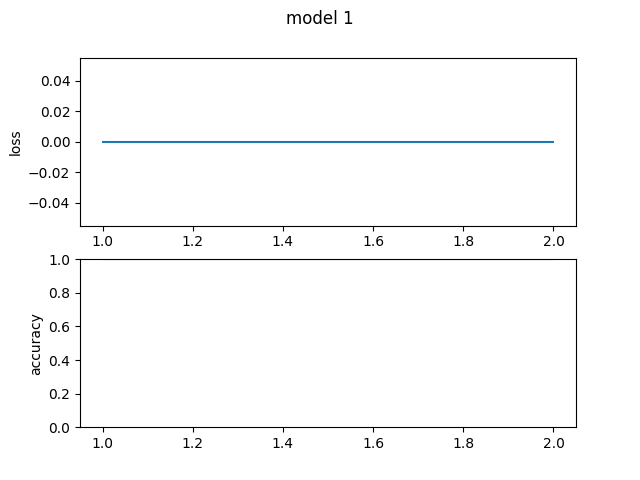
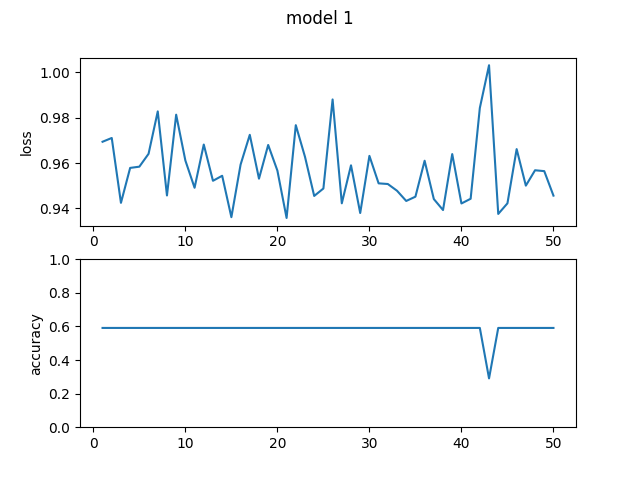
tested with 50 epochs

diff --git a/naturalScenesData.py b/naturalScenesData.py
@@ -24,10 +24,12 @@ class NaturalScenes():
         
         full_data = torchvision.datasets.ImageFolder(self.path, transform=self.eval_transforms)
 
-
-        train_data, valid_data, test_data = random_split([full_data[x] for x in range(1400)], [1000, 200, 200])
-        #
+        train_size = int(len(full_data)*0.7)
+        valid_size = int((len(full_data) - train_size) * 0.15)
+        test_size = int(len(full_data) - train_size - valid_size)
+        train_data, valid_data, test_data = random_split(full_data, [train_size, valid_size, test_size])
         #[full_data[x] for x in range(1400)]
+
         self.train_loader = DataLoader(dataset=train_data, batch_size=64, shuffle=True)
         self.valid_loader = DataLoader(dataset=valid_data, batch_size=len(valid_data), shuffle=True)
         self.test_loader = DataLoader(dataset=test_data, batch_size=len(test_data), shuffle=True)

diff --git a/run.py b/run.py
@@ -57,14 +57,13 @@ module_list = nn.ModuleList([
 ])
 
 
-data = NaturalScenes('NaturalScenes\seg_train')
+data = NaturalScenes('D:/projects/data/NaturalScenes')
 
 model = Model(1, module_list)
-model.optimizer = optim.Adam(model.parameters(), lr=0.01)
+model.optimizer = optim.Adam(model.parameters(), lr=0.1)
 model.loss_fn = nn.NLLLoss()
 
-model.test_model(data.train_loader, data.valid_loader, data.test_loader)
 
-training_output = model.learn_test(data.train_loader, data.valid_loader, data.test_loader, num_epochs=2)
+training_output = model.learn_test(data.train_loader, data.valid_loader, data.test_loader, num_epochs=50)
 plot_performance(training_output)
 

diff --git a/Model.py b/Model.py
@@ -58,7 +58,7 @@ class Model(nn.Module):
 
                 output = self(d)
                 loss = self.loss_fn(output, l)
-                print(loss)
+                
 
 
                 e_accuracy += ((output.argmax(dim=1) == l).float().mean())/len(data_loader)
